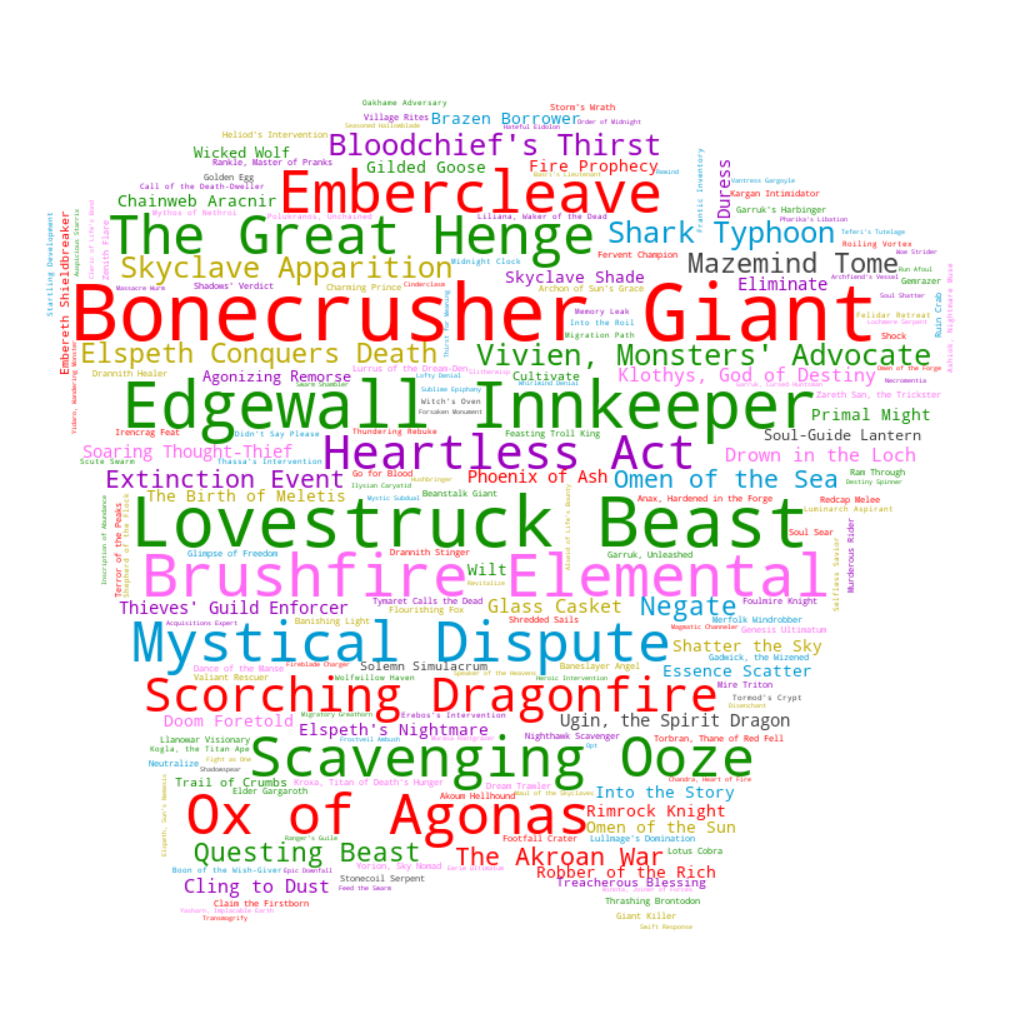
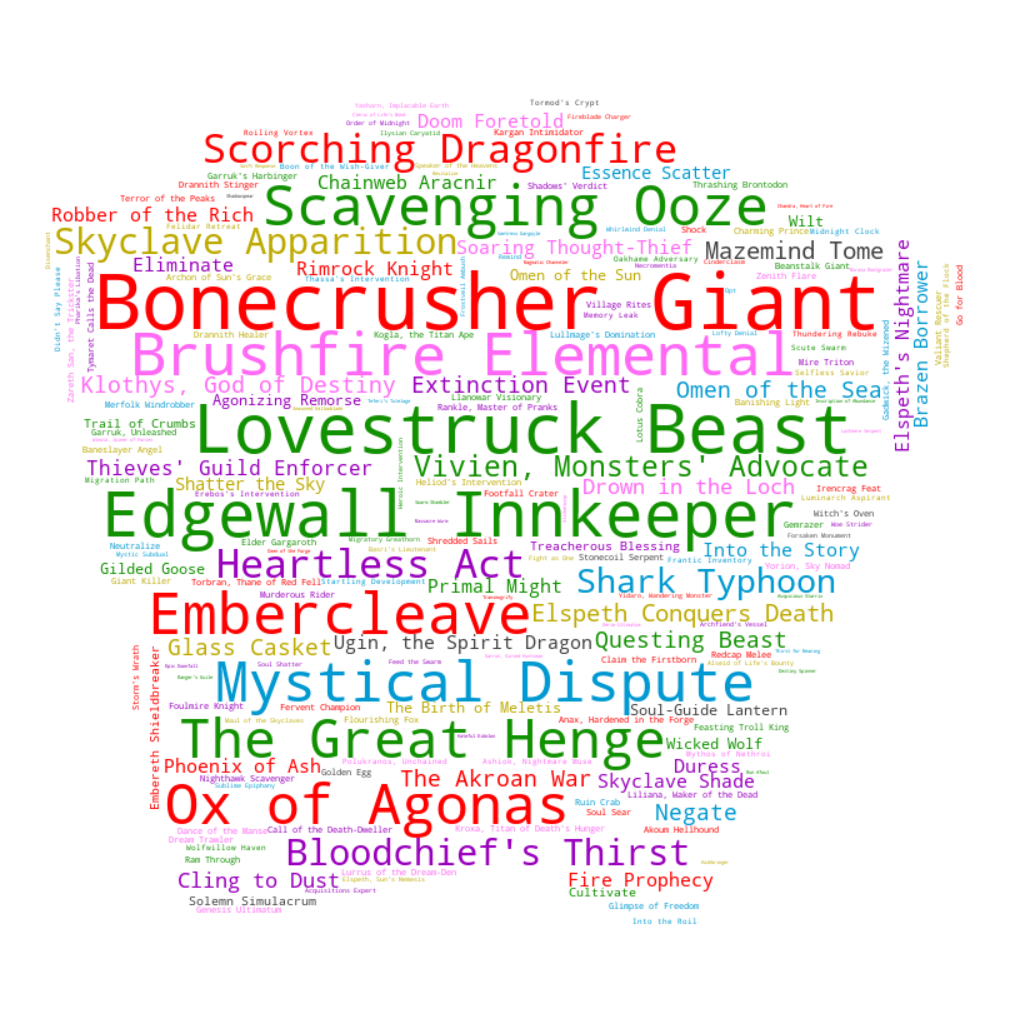
Update visualizations

Changed region(s): [[0.0304, 0.0913, 0.9431, 0.9127]]

diff --git a/src/nodes/data_viz.py b/src/nodes/data_viz.py
@@ -141,17 +141,17 @@ order by 3 desc'''
 def plot_nonland_name_bar(client):
     query = '''select case when c.name like '%//%' then split_part(c.name, '//', 1) else c.name end as name
 ,case when length(c.color_identity) > 1 then '#ff69f5' else
-	case when c.color_identity = 'W' then '#bdaa00' else
-		case when c.color_identity = 'U' then '#0099d1' else
-			case when c.color_identity = 'B' then '#9a00bd' else
-				case when c.color_identity = 'R' then '#ff0000' else
-				 case when c.color_identity = 'G' then '#119100' else
-				 	'grey'
-				 end
-				end
-			end
-		end
-	end
+case when c.color_identity = 'W' then '#bdaa00' else
+case when c.color_identity = 'U' then '#0099d1' else
+case when c.color_identity = 'B' then '#9a00bd' else
+case when c.color_identity = 'R' then '#ff0000' else
+case when c.color_identity = 'G' then '#119100' else
+'grey'
+end
+end
+end
+end
+end
 end as color
 ,sum(dc.amount) as amount
 from card as c, deck_card as dc
@@ -165,7 +165,7 @@ limit 20'''
     colors = df.iloc[:, 1].tolist()
     number = df.iloc[:, 2].tolist()
     plt.figure(figsize=(12, 8))
-    ax = sns.barplot(y=name, x=number, palette=colors)
+    sns.barplot(y=name, x=number, palette=colors)
     # set labels
     # plt.ylabel("Sets", size=15)
     # plt.ylabel("Card count", size=15)
@@ -176,7 +176,8 @@ limit 20'''
     plt.grid(axis='x')
     plt.savefig("../viz/nonland_name_count.png", dpi=100)
 
-def plot_types_count(client):
+
+def plot_types_square(client):
     query = '''select case when c.type like '%//%' then SPLIT_PART(SPLIT_PART(c.type,' // ',1),' — ',1 ) else
 SPLIT_PART(c.type,' — ',1) end as basic_type, sum(dc.amount) as amount
 from card as c, deck_card as dc
@@ -194,6 +195,30 @@ order by 2 desc;
     plt.axis('off')
     plt.tight_layout()
     plt.savefig("../viz/types_square.png", dpi=100)
+
+
+def plot_types_bar(client):
+    query = '''select case when c.type like '%//%' then SPLIT_PART(SPLIT_PART(c.type,' // ',1),' — ',1 ) else
+SPLIT_PART(c.type,' — ',1) end as basic_type, sum(dc.amount) as amount
+from card as c, deck_card as dc
+where c.type not like '%Basic Land%'
+and c.uuid = dc.card_id
+group by basic_type
+order by 2 desc;'''
+    df = pd.read_sql_query(query, client.engine)    
+    types = df.iloc[:, 0].tolist()
+    number = df.iloc[:, 1].tolist()
+    plt.figure(figsize=(12, 8))
+    sns.barplot(y=types, x=number, palette='muted')
+    # set labels
+    # plt.ylabel("Sets", size=15)
+    # plt.ylabel("Card count", size=15)
+    plt.title("Card type count", size=18)
+    plt.tight_layout()
+    #ax.set_xticklabels(name)
+    #plt.subplots_adjust(bottom=0.2)
+    plt.grid(axis='x')
+    plt.savefig("../viz/types_count.png", dpi=100)
 
 
 def plot_set_count(client):
@@ -311,13 +336,15 @@ select date, max(price) as price from decks group by date order by 1 desc;'''
 
 def update(client, params):
     plot_decks_colors(client)
-    plot_types_count(client)
+    plot_nonland_name_cloud(client)
+    plot_nonland_name_bar(client)
+    plot_types_square(client)
+    plot_types_bar(client)
     #plot_set_count(client)
     #plot_price_by_rarity(client)
     #plot_winner_price_in_time(client)
     #plot_max_price_in_time(client)
-    plot_nonland_name_cloud(client)
-    plot_nonland_name_bar(client)
+
 
 
 def done(client, params):
